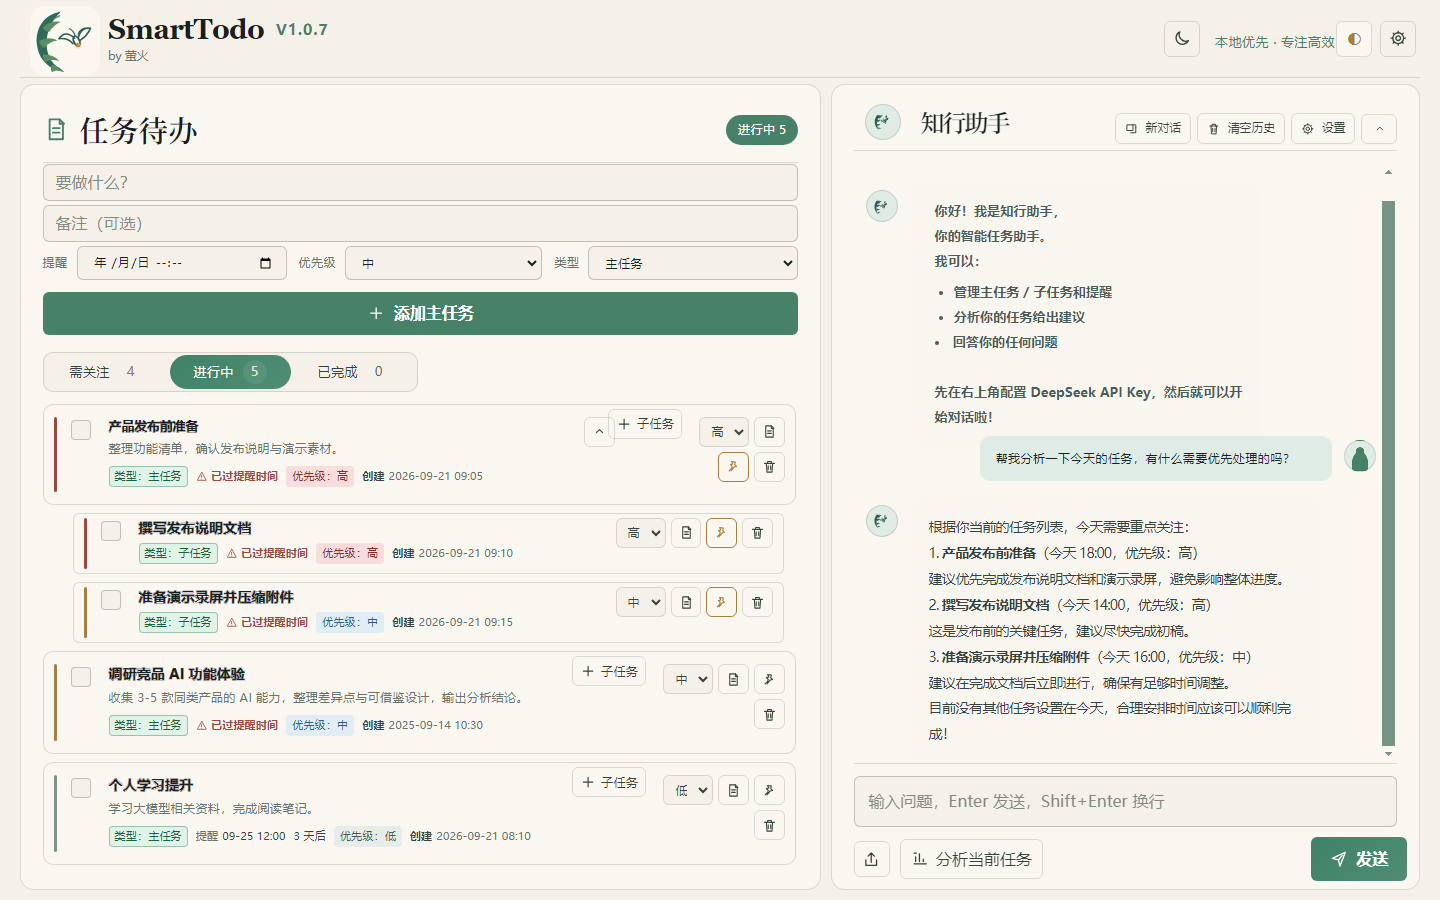
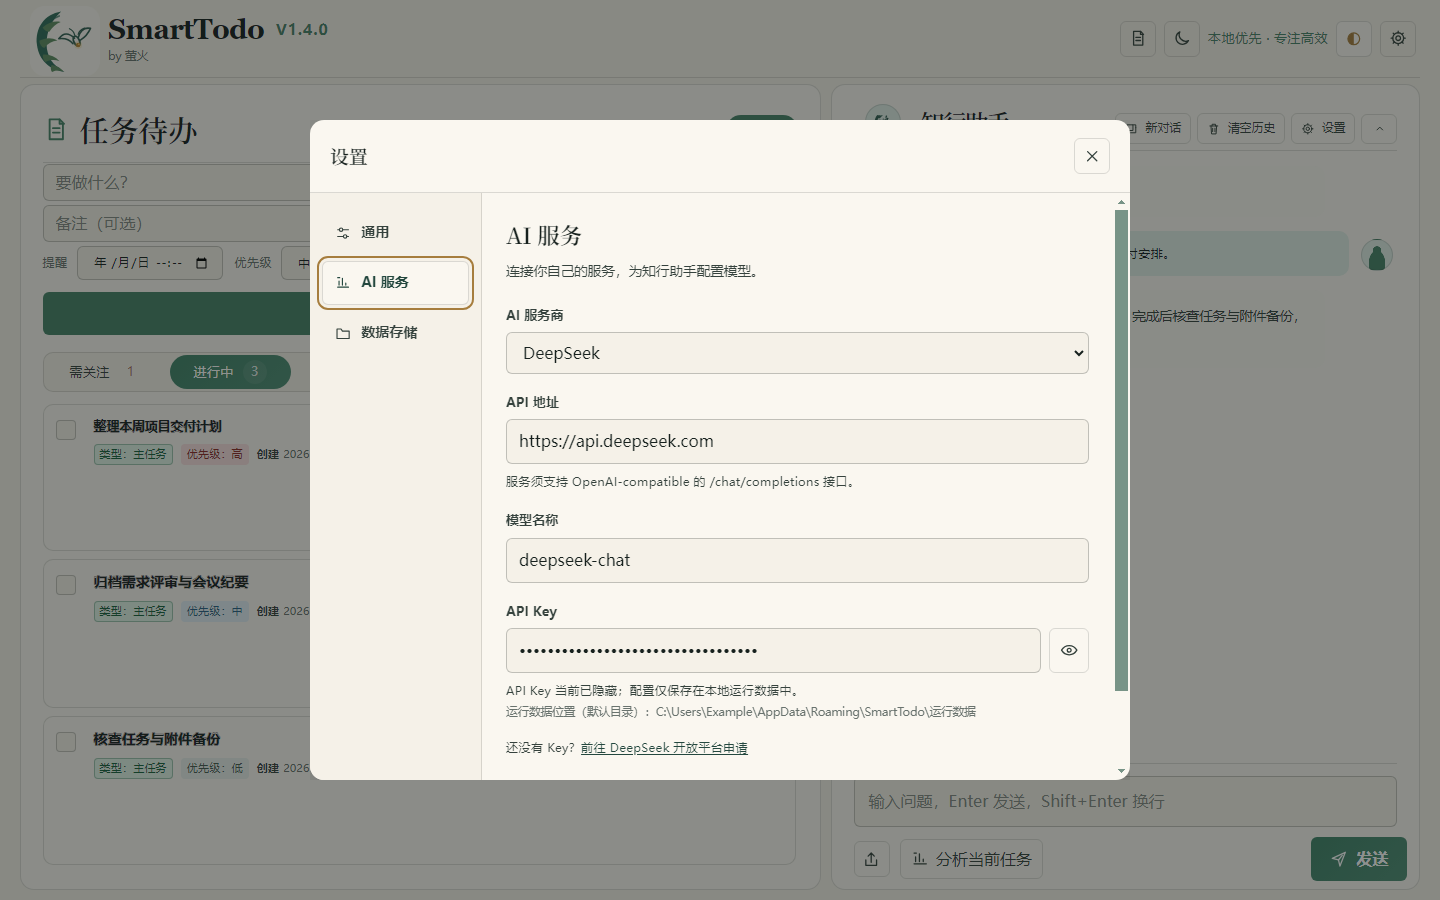
docs: add V1.4 settings review evidence

diff --git a/tests/ui-structure.test.js b/tests/ui-structure.test.js
@@ -81,6 +81,24 @@ test("settings ledger keeps the fixed header, wraps paths and reflows navigation
   assert.match(motionCss, /prefers-reduced-motion: reduce/);
 });
 
+test("selected settings tab icons inherit the jade foreground while migration warning stays vermilion", () => {
+  const selected = componentsCss.match(/\.settings-tab\[aria-selected="true"\]\s*\{[^}]*\}/)?.[0] || "";
+  const icon = componentsCss.match(/\.settings-tab\[aria-selected="true"\] \.ui-icon\s*\{[^}]*\}/)?.[0] || "";
+  assert.match(selected, /color:\s*var\(--accent-strong\)/);
+  assert.match(icon, /color:\s*inherit\s*;/);
+  assert.doesNotMatch(icon, /var\(--danger\)/);
+  assert.match(componentsCss, /\.settings-migration-warning > \[data-icon\]\s*\{[^}]*color:\s*var\(--danger\)/);
+});
+
+test("brightness control mounts a decorative SVG while retaining its accessible slider and amber size", () => {
+  const control = html.match(/<label class="brightness-control"[\s\S]*?<\/label>/)?.[0] || "";
+  assert.match(control, /<span class="brightness-icon" aria-hidden="true" data-icon="brightness"><\/span>/);
+  assert.doesNotMatch(control, /◐/u);
+  assert.match(control, /id="brightness-slider" type="range" min="75" max="125" step="5" value="100"\s+aria-label="界面亮度" aria-valuetext="100%"/);
+  assert.match(componentsCss, /\.brightness-icon\s*\{[^}]*color:\s*var\(--amber\)[^}]*font-size:\s*1\.1rem/);
+  assert.match(componentsCss, /\.brightness-icon \.ui-icon\s*\{[^}]*width:\s*1em;[^}]*height:\s*1em;/);
+});
+
 test("V1.2 shell preserves behavioral IDs and adds semantic regions", () => {
   for (const id of [
     "task-form", "task-title", "task-desc", "task-time", "task-priority", "task-type",

diff --git a/renderer/styles/components.css b/renderer/styles/components.css
@@ -90,6 +90,7 @@
 .brightness-control:focus-within,
 .brightness-control.is-open { color: var(--accent-strong); border-color: var(--jade-2); background: var(--accent-soft); }
 .brightness-icon { color: var(--amber); font-size: 1.1rem; }
+.brightness-icon .ui-icon { width: 1em; height: 1em; }
 .brightness-value { min-width: 3rem; font-variant-numeric: tabular-nums; }
 
 .panel {
@@ -401,7 +402,7 @@ dialog::backdrop { background: rgba(17, 24, 21, .48); }
 }
 .settings-tab:hover:not(:disabled) { background: var(--surface-soft); }
 .settings-tab[aria-selected="true"] { border-color: var(--line); color: var(--accent-strong); background: var(--surface-raised); }
-.settings-tab[aria-selected="true"] .ui-icon { color: var(--danger); }
+.settings-tab[aria-selected="true"] .ui-icon { color: inherit; }
 .settings-tab:active:not(:disabled) { transform: translateY(1px); }
 .settings-panel__head { margin-bottom: 24px; }
 .settings-panel__head h4 { margin: 0 0 8px; color: var(--text); font-family: var(--font-display); font-size: 1.4rem; font-weight: 600; }

diff --git a/tests/icon-utils.test.js b/tests/icon-utils.test.js
@@ -37,6 +37,16 @@ test("settings center control icons resolve to authored decorative SVG symbols",
   }
 });
 
+test("brightness icon renders the authored half-light symbol through the icon system", () => {
+  assert.equal(iconMarkup("brightness"), '<svg class="ui-icon" aria-hidden="true" focusable="false"><use href="icons.svg#icon-brightness"></use></svg>');
+  const svg = fs.readFileSync(path.resolve(__dirname, "../renderer/icons.svg"), "utf8");
+  const symbol = svg.match(/<symbol id="icon-brightness"[^>]*>[\s\S]*?<\/symbol>/)?.[0] || "";
+  assert.match(symbol, /viewBox="0 0 24 24"/);
+  assert.match(symbol, /stroke="currentColor" stroke-width="1\.7"/);
+  assert.match(symbol, /<circle cx="12" cy="12" r="8"\s*\/>/);
+  assert.match(symbol, /<path d="M12 4a8 8 0 0 0 0 16Z" fill="currentColor" stroke="none"\s*\/>/);
+});
+
 test("brand assets are generated from the V1.2 master", async () => {
   const root = path.resolve(__dirname, "..");
   const svg = fs.readFileSync(path.join(root, "assets/brand/icon-master.svg"), "utf8");

diff --git a/renderer/index.html b/renderer/index.html
@@ -26,7 +26,7 @@
       <div class="header-controls brand-tools">
         <span class="brand-principle">本地优先 · 专注高效</span>
         <label class="brightness-control" title="拖动调节界面亮度，双击恢复 100%">
-          <span class="brightness-icon" aria-hidden="true">◐</span>
+          <span class="brightness-icon" aria-hidden="true" data-icon="brightness"></span>
           <input id="brightness-slider" type="range" min="75" max="125" step="5" value="100"
             aria-label="界面亮度" aria-valuetext="100%">
           <output id="brightness-value" for="brightness-slider">100%</output>

diff --git a/tests/version.test.js b/tests/version.test.js
@@ -27,6 +27,7 @@ test("visible version and invalid-version fallback agree with V1.4.0", () => {
   }
   assert.match(read("renderer/index.html"), /<title>SmartTodo V1\.4\.0/);
   assert.match(read("renderer/index.html"), /id="app-version"[^>]*>V1\.4\.0<\/span>/);
+  assert.match(read("renderer/widget.html"), /<span class="widget-version">V1\.4\.0<\/span>/);
   assert.match(read("renderer/app.js"), /window\.desktop\?\.version \|\| "1\.4\.0"/);
   assert.match(read("preload.js"), /npm_package_version \|\| "1\.4\.0"/);
 });

diff --git a/renderer/icon-utils.js b/renderer/icon-utils.js
@@ -7,7 +7,7 @@
     "theme", "add", "pin", "subtask", "note", "delete", "collapse",
     "undo", "new-session", "clear", "settings", "upload", "analyze",
     "send", "close", "file", "image", "warning", "check",
-    "general", "folder", "eye", "eye-off"
+    "general", "folder", "eye", "eye-off", "brightness"
   ]);
 
   const escapeAttribute = value => String(value).replace(/[&"<>]/g, char => ({

diff --git a/README.md b/README.md
@@ -24,7 +24,7 @@
 
 SmartTodo 把主任务、子任务、提醒、附件和可选 AI 助手放在同一个本地工作台中。任务、会话、设置与 API Key 均保存在本机；不配置 AI、甚至断网时，任务管理仍可完整使用。
 
-当前源码版本：V1.4.0（2026-10-13），处于打包前源码审阅阶段。用户审阅通过后，才可打包或执行 GitHub 操作。此版本尚无已验证的 EXE、大小、发布校验值、签名或 GitHub Release；具体待办见 [`release/V1.4.0/版本说明.txt`](release/V1.4.0/版本说明.txt)。下方截图是既有界面参考，不代表 V1.4.0 发布包截图。
+当前源码版本：V1.4.0（2026-10-13），处于打包前源码审阅阶段。用户审阅通过后，才可打包或执行 GitHub 操作。此版本尚无已验证的 EXE、大小、发布校验值、签名或 GitHub Release；具体待办见 [`release/V1.4.0/版本说明.txt`](release/V1.4.0/版本说明.txt)。主工作台、响应式与任务笺截图为既有界面参考；设置中心截图为本次已验证的 V1.4.0 源码审阅捕获，均不代表 V1.4.0 发布包截图。
 
 ## 三分钟上手
 
@@ -77,6 +77,21 @@ AI 页保留 DeepSeek、OpenAI 和自定义 OpenAI-compatible 服务，填写 AP
 常规页的 Windows 开机自启动立即写入系统并读取实际状态，Windows 禁用的启动项不会显示成已启用。开机启动使用 `--hidden`，主窗口隐藏且不抢焦点，应用驻留托盘；手动启动正常显示主窗口，任务笺仍遵循已有可见性偏好。其他平台显示不可用。该行为已在 Electron API 边界测试，未改写测试主机的真实启动项。
 
 ## 界面导览
+
+### V1.4.0 设置中心 · 源码审阅
+
+“通用”“AI 服务”“数据存储”共享一个设置中心，各模块提供自己的操作。下方是生产渲染器在隔离测试配置中验证的 1440×900 亮色 AI 与深色存储界面：API Key 使用虚构值并保持遮蔽，路径为演示数据，未操作真实 Windows 自启动或用户数据。长路径可换行，内容独立滚动，操作可通过滚动到达。当前仍处于打包前审阅阶段。
+
+<table>
+  <tr>
+    <td width="50%"><img src="docs/images/smarttodo-settings-light.png" alt="V1.4.0 源码审阅：亮色 AI 服务设置，API Key 已遮蔽"></td>
+    <td width="50%"><img src="docs/images/smarttodo-settings-dark.png" alt="V1.4.0 源码审阅：深色数据存储设置，显示演示路径与迁移提示"></td>
+  </tr>
+  <tr>
+    <td align="center">AI 服务 · 亮色</td>
+    <td align="center">数据存储 · 深色</td>
+  </tr>
+</table>
 
 ### 深浅双主题
 
@@ -179,7 +194,7 @@ npm test
 npm run test:ui
 ```
 
-本次 V1.4.0 源码审阅的 `npm test`：277 项，275 项通过、0 项失败、2 项跳过。覆盖运行目录校验、复制／SHA-256 清单、备份失败与中断恢复、OS 启动状态、设置 IPC／一次性凭证、控制器、既有任务与附件；跳过的是两项既有附件文件符号链接用例，当前 Windows 主机不支持创建这些链接。
+本次 V1.4.0 源码审阅的 `npm test`：280 项，278 项通过、0 项失败、2 项跳过。覆盖运行目录校验、复制／SHA-256 清单、备份失败与中断恢复、OS 启动状态、设置 IPC／一次性凭证、控制器、既有任务与附件，以及设置图标语义色、SVG 亮度图标与版本显示回归；跳过的是两项既有附件文件符号链接用例，当前 Windows 主机不支持创建这些链接。
 
 Task 6 的真实 Electron 测试已通过：设置中心在 11 组尺寸／缩放、双主题下共 22 组场景（1366×768 至 2560×1440、480／639／640px 窄窗、125%／150% 缩放），验证长路径换行、零横向溢出、固定标题、可滚动内容与可达操作；并验证双入口、方向键／Home／End、ARIA 选中状态、焦点还原、Esc、Key 遮蔽和失败恢复。原工作台 8 组布局及任务笺三档缩放也通过。跨进程重启测试使用真实临时文件与生产迁移代码，但 Electron／OS 边界使用测试替身；未测试真实 Windows 自启动、用户数据或打包二进制。已记录既有开发 CSP 警告及任务笺测试中缺少部分 fixture IPC handler 的问题，没有将这些日志称为无警告通过。
 

diff --git a/docs/文件说明.md b/docs/文件说明.md
@@ -68,10 +68,12 @@
 | `docs/images/smarttodo-main-dark.png` | README 暗色主界面与周期任务截图。 |
 | `docs/images/smarttodo-responsive.png` | README 窄窗口响应式布局截图。 |
 | `docs/images/smarttodo-widget.png` | README 半透明桌面任务笺截图。 |
+| `docs/images/smarttodo-settings-light.png` | V1.4.0 打包前源码审阅：1440×900 亮色 AI 服务设置；隔离演示配置，虚构 API Key 保持遮蔽。 |
+| `docs/images/smarttodo-settings-dark.png` | V1.4.0 打包前源码审阅：1440×900 深色数据存储设置；演示完整路径、迁移警告与操作，不涉及真实用户目录。 |
 
 ## tests/ 自动化
 
-本次源码审阅的 `npm test`：277 项、275 通过、0 失败、2 跳过。覆盖 Node 逻辑、文件事务与接口；跳过的是两项既有附件文件符号链接用例，受当前 Windows 主机能力限制。主要测试文件：
+本次源码审阅的 `npm test`：280 项、278 通过、0 失败、2 跳过。覆盖 Node 逻辑、文件事务与接口，以及设置图标语义色、SVG 亮度图标与版本显示回归；跳过的是两项既有附件文件符号链接用例，受当前 Windows 主机能力限制。主要测试文件：
 
 | 范围 | 文件 |
 | --- | --- |
